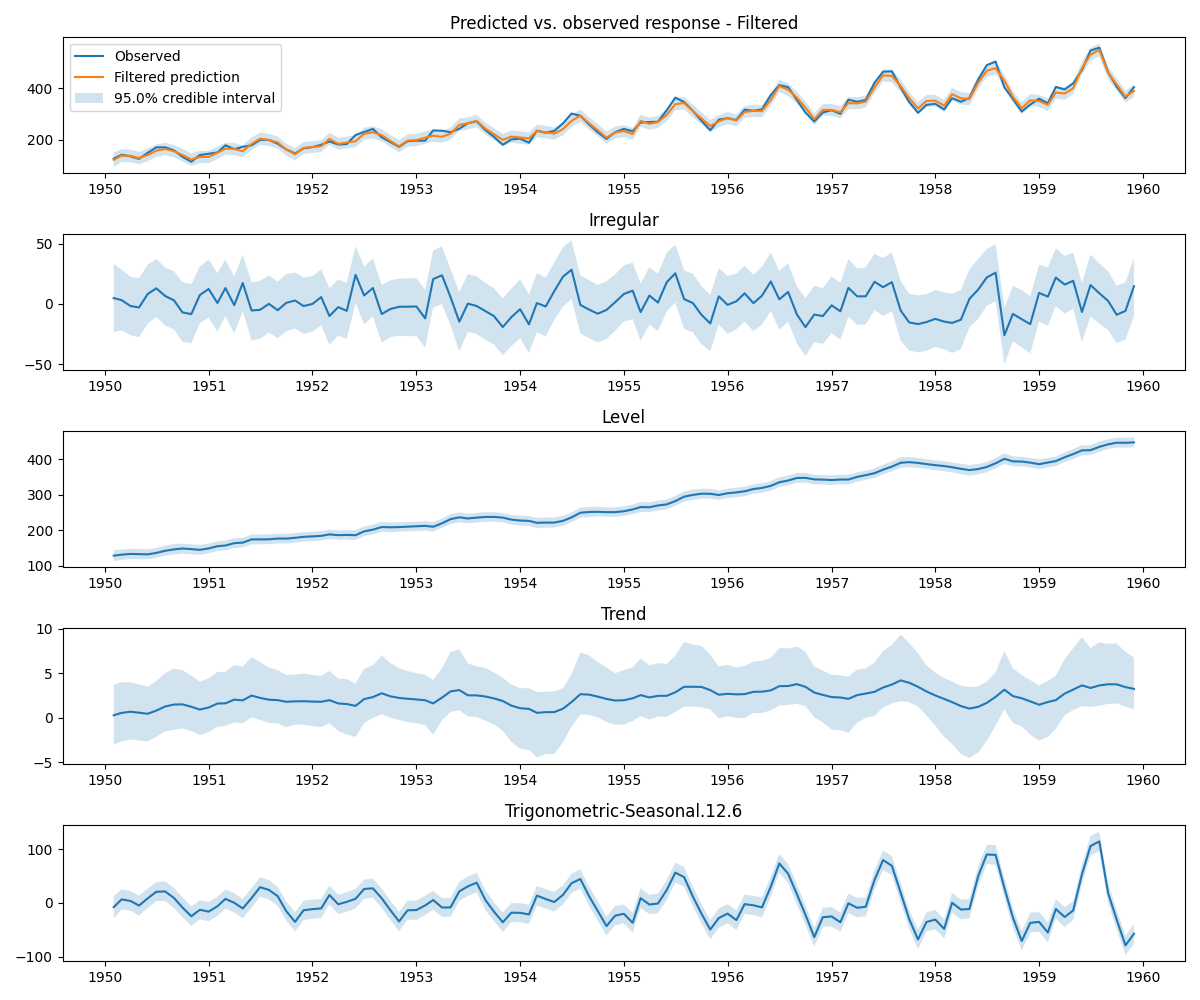
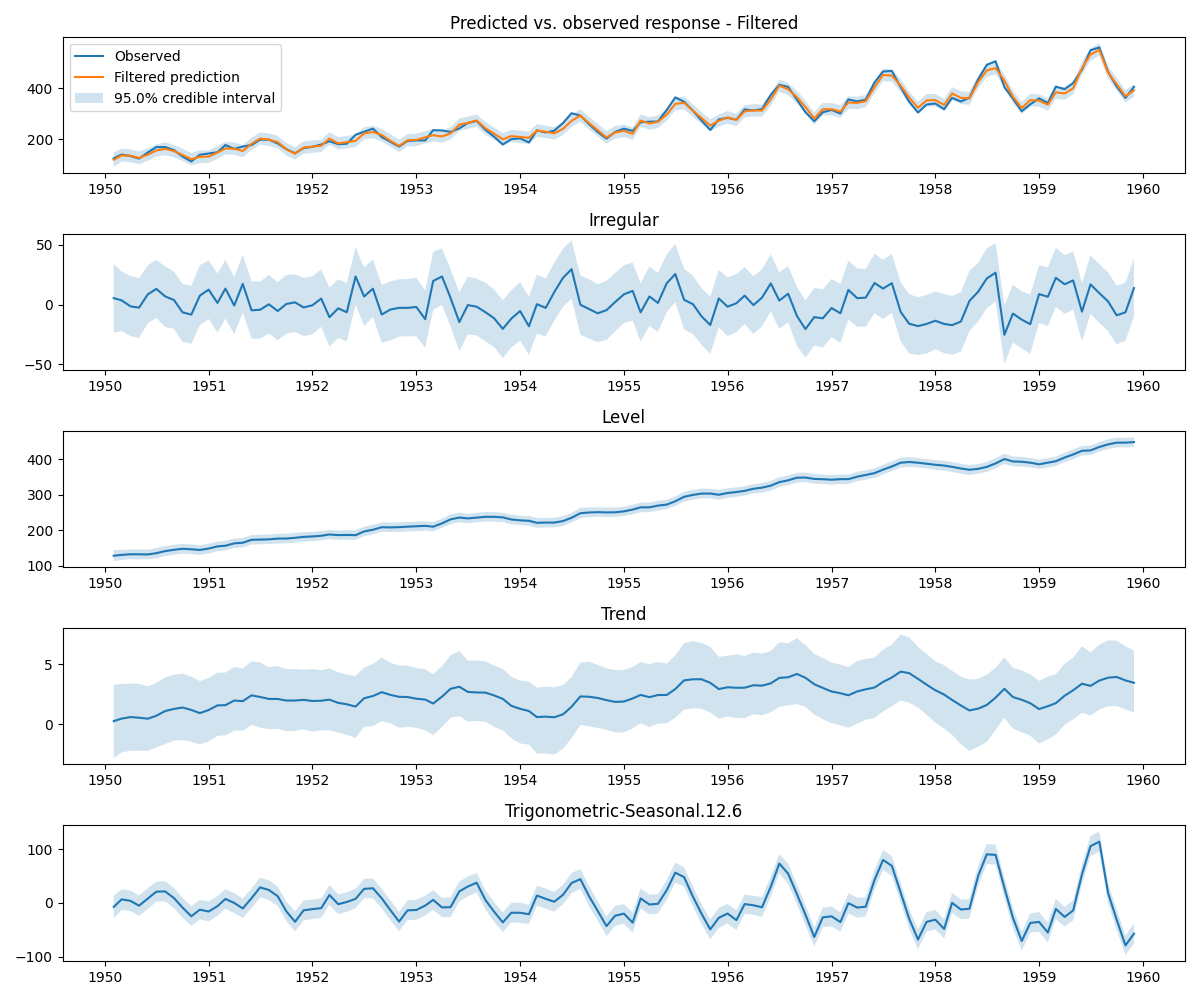
Update to README.md

diff --git a/README.md b/README.md
@@ -277,7 +277,7 @@ The Bayesian Unobserved Components forecast plot, components plot, and RMSE are 
 ![plot](./examples/images/airline_passengers_bayes_uc_components_filtered.png)
 
 ```
-BAYES-UC RMSE: 17.389692065902654
+BAYES-UC RMSE: 17.38140771574873
 ```
 
 # Model
